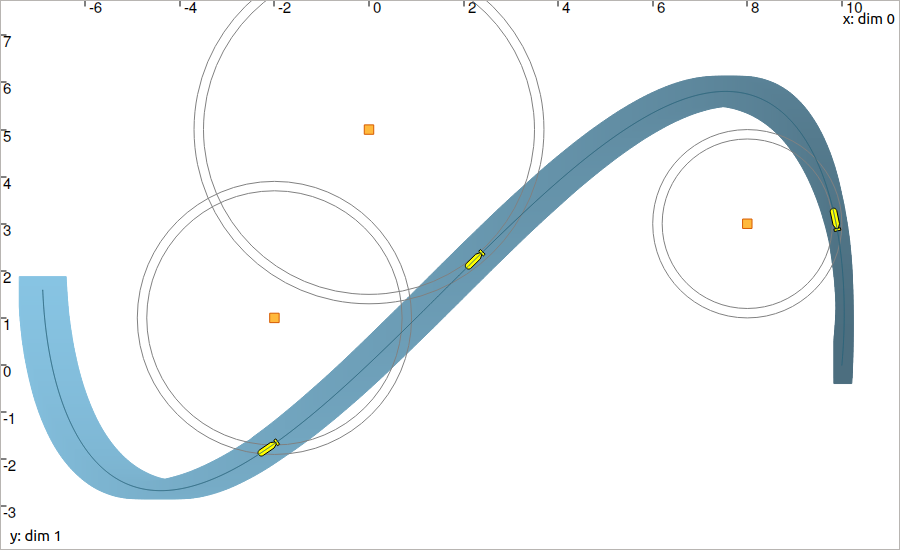
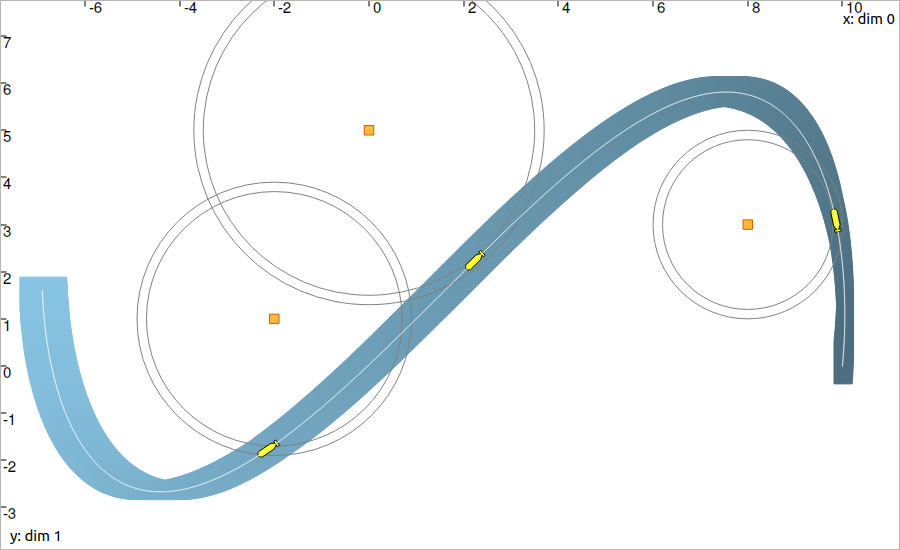
[tuto] updated Lesson F

diff --git a/doc/doc/tutorial/06-dyn-rangeonly/solution.py b/doc/doc/tutorial/06-dyn-rangeonly/solution.py
@@ -1,0 +1,32 @@
+from pyibex import *
+from tubex_lib import *
+import math
+
+# F.1.
+dt = 0.01
+tdomain = Interval(0,5) # temporal domain [t0,tf]
+actual_v = TrajectoryVector(tdomain, TFunction("(-2*sin(t) ; 2*cos(2*t))"), dt)
+v = TubeVector(actual_v, dt).inflate(0.03)
+x = TubeVector(tdomain, dt, 2)
+
+# F.2.
+cn = ContractorNetwork()
+yi = IntervalVector([[-0.84,-0.83],[-0.76,-0.75]])
+ti = 2
+cn.add(ctc.eval, [ti,yi,x,v])
+cn.contract()
+
+actual_x = TrajectoryVector(tdomain, TFunction("(2*cos(t) ; sin(2*t))"), dt)
+beginDrawing()
+fig_map = VIBesFigMap("Map")
+fig_map.set_properties(100, 100, 600, 300)
+fig_map.add_trajectory(actual_x, "x*", 0, 1, "black")
+fig_map.add_tube(x, "x", 0, 1)
+fig_map.add_beacon(actual_x(ti), 0.05)
+fig_map.axis_limits(-2.5,2.5,-0.1,0.1, True)
+fig_map.show(0.5)
+
+
+# Other questions are related to the example Getting Started
+
+endDrawing()

diff --git a/examples/tuto/01_getting_started/01_getting_started.py b/examples/tuto/01_getting_started/01_getting_started.py
@@ -75,7 +75,7 @@ cn.contract(True)
 beginDrawing()
 fig = VIBesFigMap("fig")
 fig.set_properties(50, 50, 900, 550)
-fig.add_trajectory(x_truth, "xtruth", 0, 1)
+fig.add_trajectory(x_truth, "xtruth", 0, 1, "white")
 fig.add_tube(x, "x", 0, 1)
 fig.smooth_tube_drawing(True)
 
